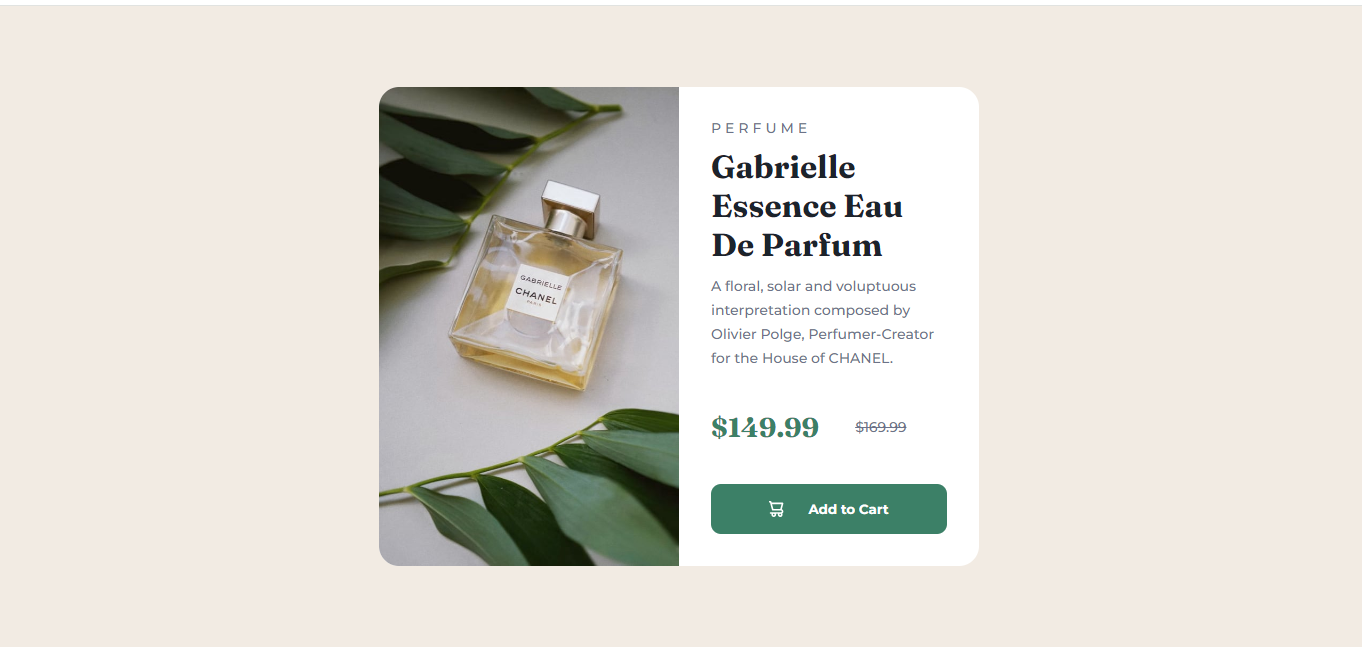
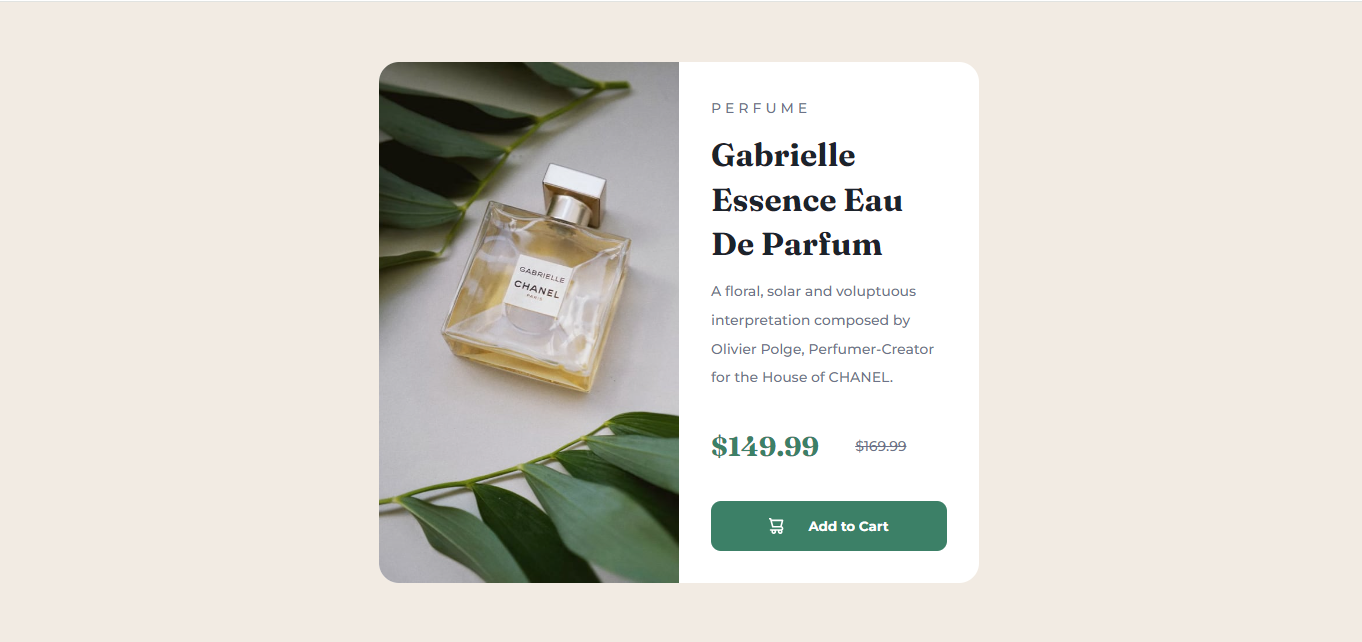
add fixes and screenshots

diff --git a/style.css b/style.css
@@ -22,7 +22,6 @@ body {
     min-height: 100vh;
     color: var(--neutral-grayish-blue);
     background-color: var(--primary-cream);
-  /*   padding: 2rem 2rem 0 2rem; */
   }
 
   h1 {
@@ -31,11 +30,12 @@ body {
     font-size: 2rem;
     margin-top: 10px;
     margin-bottom: 10px;
+    line-height: 2.8rem;
 }
 
-.container {
+#container {
   width: 100%;
-  padding: 0 1.5rem;
+  padding: 1.5rem 1rem;
 }
 
 .product__description {
@@ -54,6 +54,8 @@ img {
   border-radius: 20px 20px 0 0;
   flex: 1 0 50%;
   object-fit: cover;
+  width: 100%;
+  min-height: calc(40vh - 1.5rem);
  }
 
   .product__price__group {
@@ -80,6 +82,15 @@ img {
   .product__content {
     padding: 2rem;
     border-radius: 0 0 20px 20px;
+    display: flex;
+    flex-direction: column;
+    align-items: flex-start;
+    justify-content: space-between;
+    min-height: calc(60vh - 1.5rem);
+  }
+
+  .product__content p {
+    line-height: 1.8rem;
   }
 
   .product__category {
@@ -119,10 +130,12 @@ img {
     body {
       display: grid;
       place-content: center;
+      min-height: 100vh;
     }
     #product {
       flex-direction: row;
       max-width: 600px;
+      margin-bottom: auto;
     }
     img {
       border-radius: 20px 0 0 20px;
